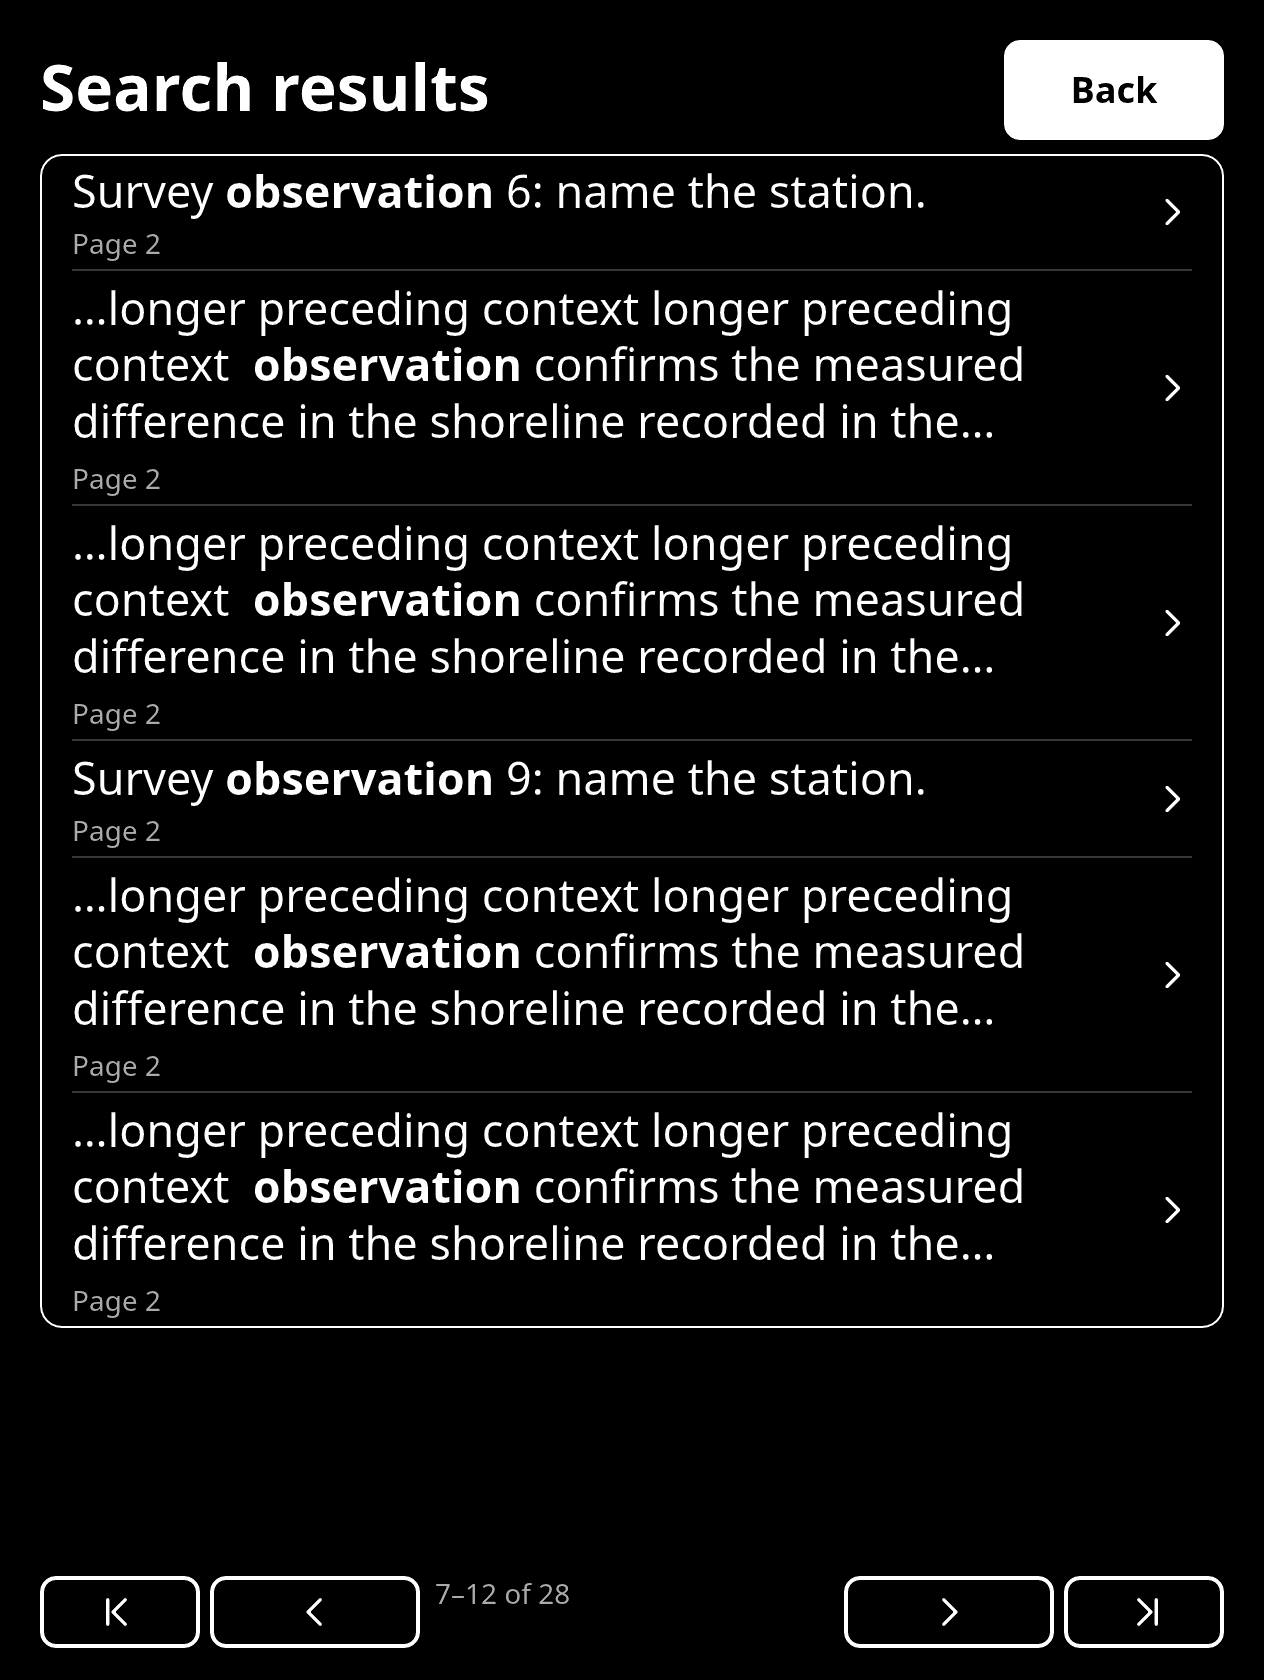
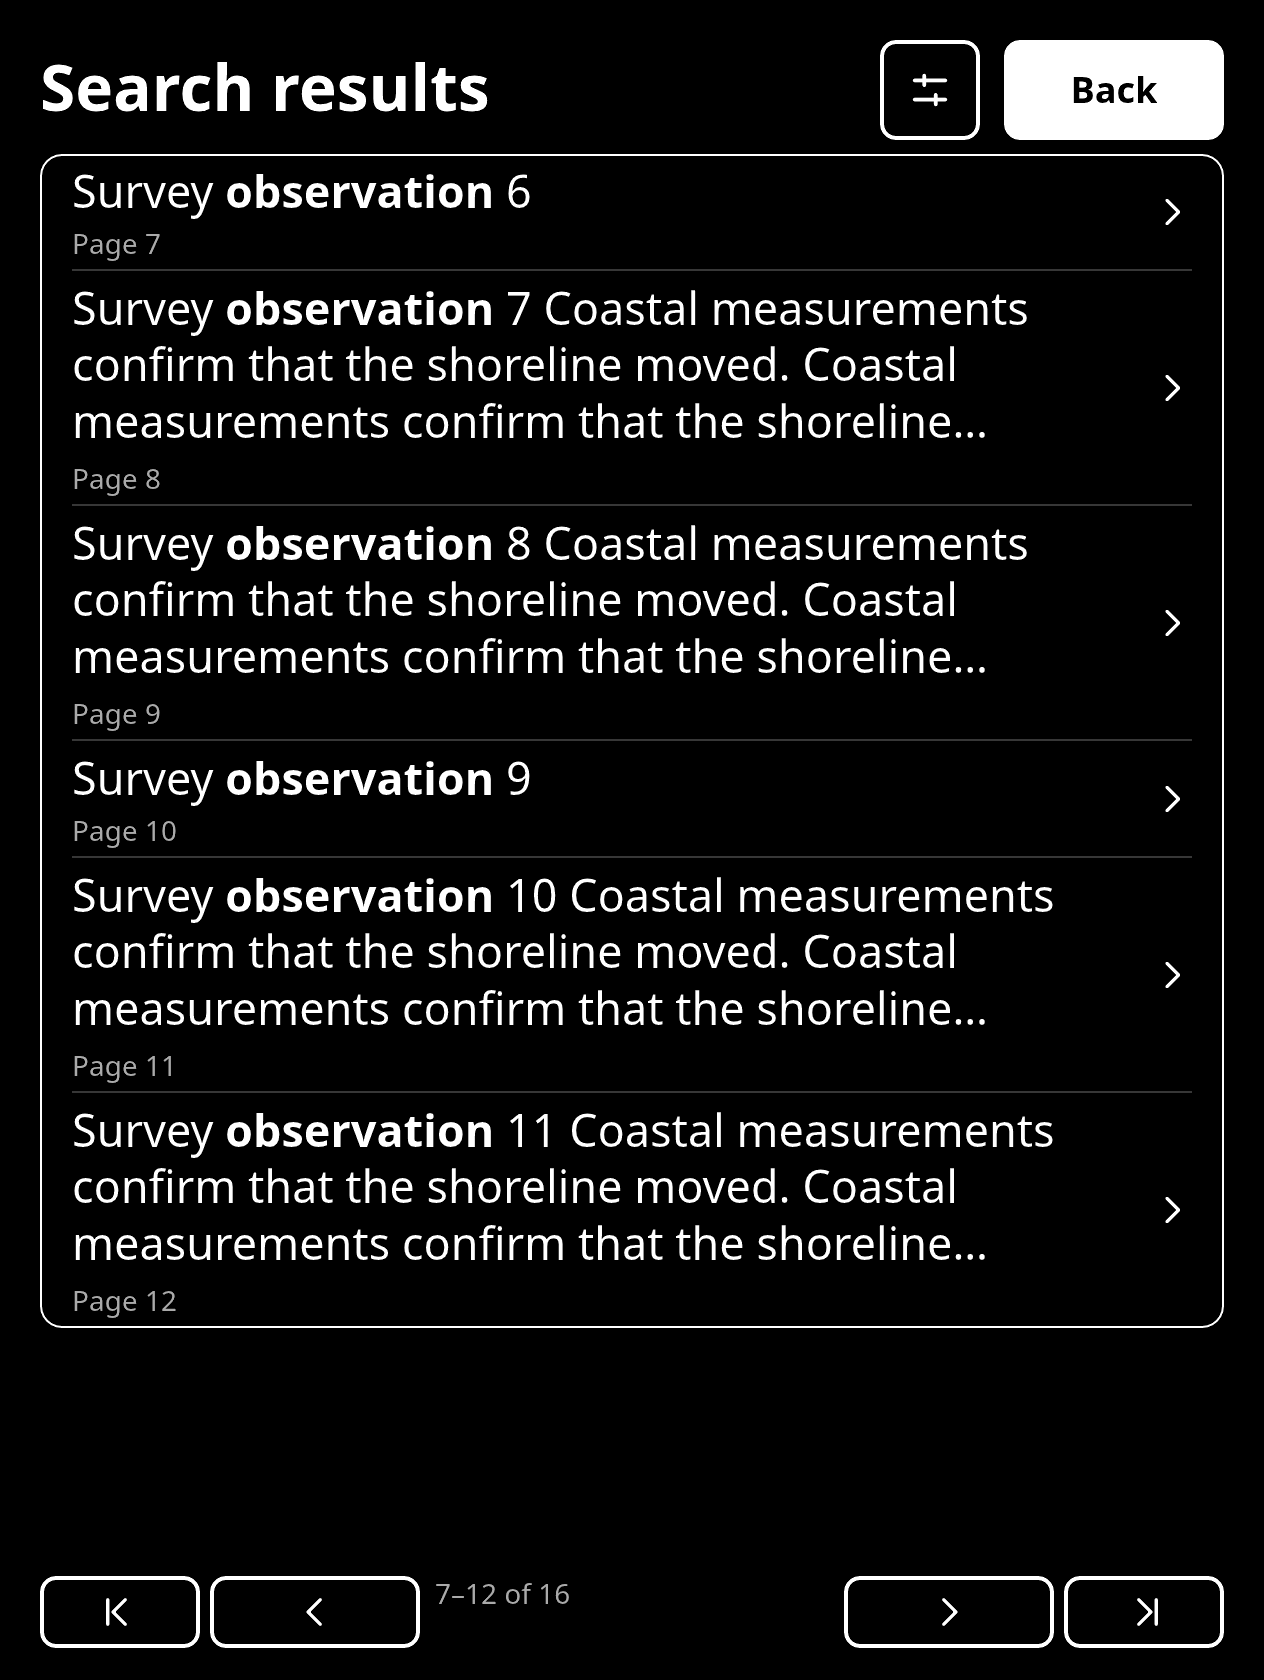
Record Reader 0.1.33 native and original-document checks

diff --git a/docs/real-document-verification.md b/docs/real-document-verification.md
@@ -223,6 +223,32 @@ file hashes matched before and after. The first frames took 1,504 ms,
 12,955 ms, 1,296 ms and 1,954 ms respectively. [Bookmark and header
 verification](bookmark-max-lines.md) records native and simulator evidence.
 
+## Reader 0.1.33 release on the Oasis
+
+The ARMHF package installed through the Store transaction and the installed
+executable matched the GitHub release.
+[Release assets](https://github.com/PrimitiveOS/kindle-primitive-reader/releases/tag/v0.1.33)
+
+| Verified file | SHA-256 | Bytes |
+| --- | --- | ---: |
[2 lines of base64/hex data omitted]
+
+The Mac run passed 1,046 Reader library tests, one Kindle binary test, 14 EPUB
+package tests, and four layout checks. The Oasis ARMHF run passed 1,050 Reader
+library tests, 14 EPUB package tests and four layout checks. Both runs skipped
+62 optional tests. Four of the six software-rendered search frames matched
+the desktop references exactly. The other two now show the integrated options
+icon and the fixed PDF fixture's result text and page numbers.
+[Native EPUB results](screenshots/flexible-epub-search-results.png) · [Native PDF results](screenshots/flexible-pdf-search-results.png) · [Fixed-page match preview](screenshots/fixed-search-result-preview.png)
+
+The installed release opened an original EPUB, PDF, AZW3, and MOBI through the
+picker, rendered a changed frame after forward navigation, and resumed from an
+isolated profile. The original files matched their starting SHA-256 hashes.
+First frames took 1,483 ms, 19,032 ms, 2,968 ms, and 5,910 ms respectively.
+These checks ran offscreen while Primitive Browser was open. Foreground touch,
+physical page buttons and E Ink refresh were outside this run.
+
 ## Reader 0.1.32 release on the Oasis
 
 The [0.1.32 GitHub release](https://github.com/PrimitiveOS/kindle-primitive-reader/releases/tag/v0.1.32)
